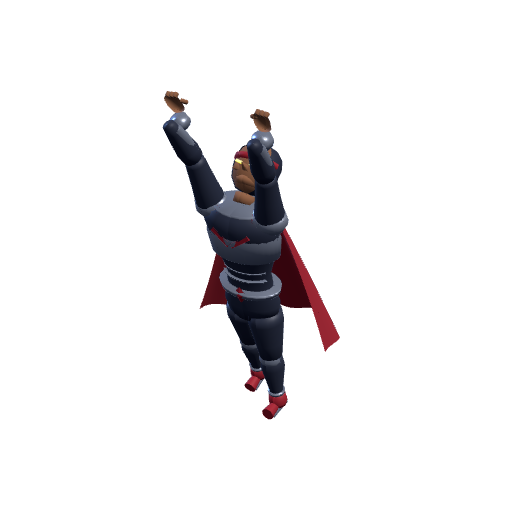
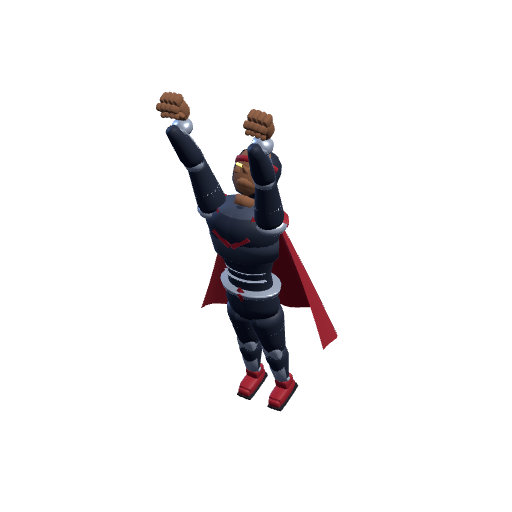
Deploy: drag direction and feel fixed, The Forged rebuilt with real hands
Claude-Session: https://claude.ai/code/session_018Pf2mkHqADKazoEgSv3VdL

diff --git a/game/index.html b/game/index.html
@@ -3135,14 +3135,24 @@
         // picked slides out from under you on every bend.
         if(this._prevRc!==undefined) this.pos.x += rc - this._prevRc;
         this._prevRc=rc;
+        if(this._dragSeq===undefined) this.vel.x=0;
         // Keys and gyro still nudge, so the scheme never leaves anyone without a control.
         this._dragBase=clamp(this._dragBase + sx*STRAFE*0.35*dt, -lim, lim);
-        const want=clamp(this._dragBase + g.input.dragPx*g.input.dragWorldPerPx(), -lim, lim);
-        // Critically-damped follow with a hard speed cap: instant enough to feel 1:1, capped so a
-        // flick across the glass cannot teleport him through a tower.
-        const step=clamp((rc+want-this.pos.x)*Math.min(1,18*dt), -STRAFE*dt, STRAFE*dt);
-        this.pos.x+=step;
-        this.vel.x=step/Math.max(dt,1e-4);
+        // MINUS. The camera looks down +Z, so world +X is screen LEFT — which is why the joystick
+        // path negates its steer too. Without this, dragging right sent him left.
+        const want=clamp(this._dragBase - g.input.dragPx*g.input.dragWorldPerPx(), -lim, lim);
+        // A CRITICALLY DAMPED SPRING, not a per-frame lerp toward the target. A lerp starts at full
+        // speed and decays, which is exactly the stepped, robotic feel — there is no acceleration
+        // in it at all. A spring carries velocity between frames, so he leans into the move and
+        // settles out of it, and it cannot overshoot.
+        const target=rc+want;
+        const om=13.5;                              // rad/s — about a quarter-second to settle
+        const x=om*dt, expo=1/(1+x+0.48*x*x+0.235*x*x*x);
+        const change=this.pos.x-target;
+        const tmp=(this.vel.x+om*change)*dt;
+        this.vel.x=clamp((this.vel.x-om*tmp)*expo, -STRAFE, STRAFE);
+        const nx=target+(change+tmp)*expo;
+        this.pos.x += clamp(nx-this.pos.x, -STRAFE*dt, STRAFE*dt);   // a flick still cannot teleport
         sx=clamp(this.vel.x/STRAFE,-1,1);           // bank/cape read the motion, not the finger
       } else {
         this.vel.x=damp(this.vel.x,sx*STRAFE,12,dt);         // weightier response
@@ -6228,14 +6238,16 @@
   function buildProceduralVillain(opts){
     // The suit was 0x1b1d26 — so dark that every plate, rib and buckle on it disappeared into one
     // silhouette in daylight. Lifting it two stops is what lets the armour read at all.
-    const O=Object.assign({ skin:0x8a5a3c, suit:0x2b3040, trim:0x9b1d2a, metal:0x8e94a2 }, opts||{});
+    const O=Object.assign({ skin:0x8a5a3c, suit:0x232a3a, trim:0x9b1d2a, metal:0xc2ccda }, opts||{});
     const HEAD=0.115;                                   // one head-height; everything derives from it
     const root=new THREE.Group();
 
     const M=(c,o)=>new THREE.MeshStandardMaterial(Object.assign({color:c,roughness:.62,metalness:.06},o||{}));
-    const matSuit=M(O.suit,{roughness:.46,metalness:.18}), matSkin=M(O.skin,{roughness:.78}),
+    const matSuit=M(O.suit,{roughness:.52,metalness:.10}), matSkin=M(O.skin,{roughness:.78}),
           matTrim=M(O.trim,{roughness:.5}), matMetal=M(O.metal,{roughness:.28,metalness:.55,emissive:0x2a2f3a,emissiveIntensity:.25}),
-          matEye=M(0xffe9a8,{roughness:.2,emissive:0xffb020,emissiveIntensity:2.2});
+          matEye=M(0xffe9a8,{roughness:.2,emissive:0xffb020,emissiveIntensity:2.2}),
+          matSole=M(0x14161c,{roughness:.92,metalness:0}),
+          matPlate=M(0x4e576a,{roughness:.40,metalness:.42});
 
     // A limb from a silhouette: pairs of [radius, height] up the length, spun into a solid.
     // `seg` 20 is smooth enough to read as flesh without being a sphere.
@@ -6244,6 +6256,21 @@
       const g=new THREE.LatheGeometry(pts, seg||20);
       g.computeVertexNormals();
       return new THREE.Mesh(g, mat);
+    };
+    // A BOX WITH ROUNDED EDGES. Nothing on a body is a sharp-cornered box, and nothing on a body
+    // is a lathe either — hands, plates and boots are blocks with radii. Each vertex is pulled onto
+    // the surface of an inner box swept by a sphere of radius r, which is exactly a rounded box.
+    const roundBox=(w,h,d,r,seg)=>{
+      const n=seg||5, g=new THREE.BoxGeometry(w,h,d,n,n,n), p=g.attributes.position;
+      const hx=Math.max(0,w/2-r), hy=Math.max(0,h/2-r), hz=Math.max(0,d/2-r);
+      const v=new THREE.Vector3(), c=new THREE.Vector3();
+      for(let i=0;i<p.count;i++){
+        v.set(p.getX(i),p.getY(i),p.getZ(i));
+        c.set(clamp(v.x,-hx,hx), clamp(v.y,-hy,hy), clamp(v.z,-hz,hz));
+        v.sub(c); if(v.lengthSq()>1e-12) v.setLength(r); v.add(c);
+        p.setXYZ(i,v.x,v.y,v.z);
+      }
+      g.computeVertexNormals(); return g;
     };
     // Same, but only a slice of the revolution — for armour that sits on the FRONT of the chest
     // instead of wrapping all the way round like a barrel.
@@ -6274,9 +6301,11 @@
     // the chest and narrowing to the shoulders, which is the silhouette of a bust — he read as a
     // woman in a breastplate. It is now a metal shell over the FRONT 210° only, cut away at the
     // sternum, with a small red chevron for the villain read.
-    const plate=shell([[0.00,-0.02*HEAD],[0.82*HEAD,0.06*HEAD],[0.88*HEAD,0.52*HEAD],
-                       [0.80*HEAD,0.84*HEAD],[0.50*HEAD,1.02*HEAD]], matMetal, 20,
-                      -1.83, 3.66);
+    // matPlate, not matMetal: in bright chrome this wide a shell became a white bib across his
+    // chest that read as a bust again, and it drowned the chevron sitting on top of it.
+    const plate=shell([[0.00,-0.02*HEAD],[0.80*HEAD,0.06*HEAD],[0.855*HEAD,0.50*HEAD],
+                       [0.74*HEAD,0.82*HEAD],[0.44*HEAD,0.98*HEAD]], matPlate, 20,
+                      -1.70, 3.40);
     plate.scale.set(1.02,1,0.645); put(plate, 0, 0.20*HEAD, 0);
     for(const sx of [-1,1]){          // the chevron, two bars meeting at the sternum
       const bar=new THREE.Mesh(new THREE.BoxGeometry(0.52*HEAD,0.11*HEAD,0.07*HEAD), matTrim);
@@ -6350,55 +6379,92 @@
                      -1.36, 2.72);
     mask.scale.z=0.94; H(mask, 0, 1.66*HEAD, 0);
 
-    // ---- ARMS. Deltoid swell, taper into the elbow, forearm belly, wrist pinch. Built pointing
-    // DOWN the -Y axis then rotated out, so the shoulder is the pivot and the pose is one number.
+    // ---- ARMS. Built pointing DOWN the -Y axis and then swung overhead, so the shoulder is the
+    // pivot and the whole pose is one rotation. Everything is mirrored exactly, and NOTHING here
+    // is allowed to differ between the two sides — an asymmetric limb makes him look like he is
+    // leaning even when he is dead level.
+    //
+    // In arm-local space after that swing: -Y is the punching direction, +Z is the BACK of the
+    // hand, -Z is the palm. The fingers curl from the knuckles round toward -Z.
     const arm=(side)=>{
       const g=new THREE.Group();
       // A pauldron over the shoulder — the single strongest "villain" read in a silhouette.
-      const pauld=limb([[0.00,0.16*HEAD],[0.30*HEAD,0.10*HEAD],[0.40*HEAD,-0.10*HEAD],
-                        [0.36*HEAD,-0.30*HEAD],[0.00,-0.34*HEAD]], matMetal, 18);
-      pauld.scale.z=0.86; pauld.position.y=0.04*HEAD; g.add(pauld);
+      // Two overlapping plates rather than one dome, so it has a lip that catches the light.
+      const pauld=limb([[0.00,0.18*HEAD],[0.26*HEAD,0.13*HEAD],[0.385*HEAD,-0.02*HEAD],
+                        [0.40*HEAD,-0.13*HEAD],[0.30*HEAD,-0.20*HEAD],[0.00,-0.23*HEAD]], matMetal, 20);
+      pauld.scale.z=0.86; pauld.position.y=0.03*HEAD; g.add(pauld);
+      const lip=shell([[0.00,-0.06*HEAD],[0.425*HEAD,-0.09*HEAD],[0.43*HEAD,-0.19*HEAD],[0.00,-0.22*HEAD]],
+                      matTrim, 18, -1.5, 3.0);
+      lip.scale.z=0.86; lip.position.y=0.03*HEAD; g.add(lip);
       for(let k=0;k<2;k++){                              // two swept spikes off the pauldron
         const sp=limb([[0.00,0],[0.055*HEAD,0.02*HEAD],[0.035*HEAD,0.20*HEAD],[0.00,0.30*HEAD]], matTrim, 8);
         sp.position.set(side*0.26*HEAD, 0.06*HEAD, -0.10*HEAD+k*0.20*HEAD);
         sp.rotation.set(-0.5+k*0.3, 0, side*1.05); g.add(sp);
       }
-      // a plate down the outside of the forearm — the last thing the wall sees
-      const vamb=limb([[0.00,0.10*HEAD],[0.20*HEAD,0.02*HEAD],[0.215*HEAD,-0.55*HEAD],
-                       [0.185*HEAD,-0.92*HEAD],[0.00,-1.00*HEAD]], matMetal, 16);
-      vamb.scale.set(1.06,1,0.78);
       // Upper arm: shoulder to elbow is ~1.35 heads, and the elbow must land level with the navel.
       const upper=limb([
         [0.00,0],[0.30*HEAD,-0.05*HEAD],[0.325*HEAD,-0.26*HEAD],          // deltoid swell
-        [0.27*HEAD,-0.70*HEAD],[0.225*HEAD,-1.20*HEAD],[0.21*HEAD,-1.32*HEAD],
-        [0.00,-1.35*HEAD]                                                  // elbow
-      ], matSuit, 18);
+        [0.30*HEAD,-0.52*HEAD],[0.255*HEAD,-0.92*HEAD],                    // bicep belly, then tricep taper
+        [0.225*HEAD,-1.20*HEAD],[0.21*HEAD,-1.32*HEAD],[0.00,-1.35*HEAD]   // elbow
+      ], matSuit, 20);
       g.add(upper);
+      // A band at the bicep and an elbow cap — the joints are where a limb stops reading as a tube.
+      const band=limb([[0.00,-0.03*HEAD],[0.285*HEAD,-0.01*HEAD],[0.29*HEAD,0.09*HEAD],[0.00,0.11*HEAD]], matMetal,18);
+      band.position.y=-0.62*HEAD; g.add(band);
+      const elbowCap=limb([[0.00,0.12*HEAD],[0.19*HEAD,0.06*HEAD],[0.235*HEAD,-0.06*HEAD],
+                           [0.20*HEAD,-0.16*HEAD],[0.00,-0.20*HEAD]], matMetal, 16);
+      elbowCap.scale.z=0.80; elbowCap.position.set(0,-1.30*HEAD,-0.08*HEAD); elbowCap.rotation.x=-0.18; g.add(elbowCap);
       // Forearm: elbow to wrist ~1.15 heads, wrist level with the crotch.
       const fore=limb([
         [0.00,0],[0.225*HEAD,-0.05*HEAD],[0.245*HEAD,-0.30*HEAD],         // forearm belly, high
         [0.165*HEAD,-0.92*HEAD],[0.135*HEAD,-1.12*HEAD],[0.00,-1.15*HEAD] // wrist pinch
-      ], matSuit, 18);
+      ], matSuit, 20);
       fore.position.y=-1.33*HEAD; fore.rotation.x=0.26; g.add(fore);
+      // a plate down the outside of the forearm — the last thing the wall sees
+      const vamb=shell([[0.00,0.10*HEAD],[0.205*HEAD,0.02*HEAD],[0.235*HEAD,-0.55*HEAD],
+                        [0.205*HEAD,-0.92*HEAD],[0.00,-1.00*HEAD]], matMetal, 18, -1.15, 2.30);
+      vamb.scale.set(1.06,1,0.86);
       vamb.position.set(0,-1.39*HEAD,0.02*HEAD); vamb.rotation.x=0.26; g.add(vamb);
-      const cuff=limb([[0.00,-0.04*HEAD],[0.205*HEAD,0],[0.215*HEAD,0.16*HEAD],[0.00,0.18*HEAD]], matMetal,16);
+      const cuff=limb([[0.00,-0.05*HEAD],[0.20*HEAD,-0.01*HEAD],[0.225*HEAD,0.12*HEAD],
+                       [0.205*HEAD,0.19*HEAD],[0.00,0.21*HEAD]], matMetal,18);
       cuff.position.y=-2.34*HEAD; cuff.rotation.x=0.26; g.add(cuff);
-      // Hand: a palm block plus a thumb, because a lathe alone gives a mitten.
-      // Hand: a lathe palm squashed flat, so the edges are rounded the way a fist is, plus a
-      // knuckle row and a thumb. Three stacked boxes read as a mitten made of Lego.
-      const hg=new THREE.Group(); hg.position.set(0,-2.48*HEAD,0.13*HEAD); hg.rotation.x=0.26;
-      const palm=limb([[0.00,0.04*HEAD],[0.15*HEAD,-0.02*HEAD],[0.175*HEAD,-0.22*HEAD],
-                       [0.155*HEAD,-0.38*HEAD],[0.00,-0.44*HEAD]], matSkin, 14);
-      palm.scale.set(1,1,0.62); hg.add(palm);
-      for(let k=0;k<3;k++){                       // knuckles, so the fist has a top edge
-        const kn=limb([[0.00,0],[0.048*HEAD,0.01*HEAD],[0.05*HEAD,0.10*HEAD],[0.00,0.12*HEAD]], matSkin, 8);
-        kn.rotation.x=Math.PI*0.52;
-        kn.position.set((k-1)*0.095*HEAD, -0.38*HEAD, 0.02*HEAD); hg.add(kn);
+
+      // ---- THE FIST. This is what leads every smash, so it is built as an actual hand: a rounded
+      // palm mass, four knuckles standing proud of the leading face, four curled fingers wrapped
+      // round onto the palm with their tips tucked under, and a thumb laid across the front.
+      //
+      // The first attempt used lathes for all of it. A lathe is a solid of revolution — the palm
+      // came out as a faceted cone and the fingers as loose cylinders floating off the end of it,
+      // which reads as a robot claw. A hand is BLOCKS WITH RADII, so it is roundBox throughout.
+      const hg=new THREE.Group(); hg.position.set(0,-2.50*HEAD,0.13*HEAD); hg.rotation.x=0.26;
+      hg.scale.setScalar(1.24);                          // a hand is ~0.75 of a head, not a knob
+      const F=(geo,x,y,z,rx,rz)=>{ const m=new THREE.Mesh(geo, matSkin);
+        m.position.set(x*HEAD,y*HEAD,z*HEAD); if(rx)m.rotation.x=rx; if(rz)m.rotation.z=rz;
+        hg.add(m); return m; };
+      // back of the hand and the palm behind it, as one mass
+      F(roundBox(0.350*HEAD,0.335*HEAD,0.260*HEAD,0.105*HEAD,6), 0,-0.135,0.015);
+      const knGeo =roundBox(0.078*HEAD,0.165*HEAD,0.210*HEAD,0.056*HEAD,4);
+      const midGeo=roundBox(0.078*HEAD,0.210*HEAD,0.135*HEAD,0.050*HEAD,4);
+      const tipGeo=roundBox(0.078*HEAD,0.100*HEAD,0.100*HEAD,0.043*HEAD,4);
+      for(let k=0;k<4;k++){
+        const fx=(k-1.5)*0.092;                          // 0.010 of clear air between fingers, so
+        const arc=Math.abs(k-1.25)*0.016;                // the grooves actually read at distance
+        // the knuckle: the leading edge of the fist, and the part that hits the wall
+        F(knGeo, fx, -0.385+arc, 0.020, -0.10);
+        // the middle phalanx, wrapped round onto the palm side
+        F(midGeo, fx, -0.360+arc, -0.150, 0.42);
+        // the fingertip, tucked back up under the fingers
+        F(tipGeo, fx, -0.235+arc, -0.200, 0.60);
       }
-      const thumb=limb([[0.00,0],[0.048*HEAD,0.01*HEAD],[0.045*HEAD,0.15*HEAD],[0.00,0.17*HEAD]], matSkin, 8);
-      thumb.position.set(side*-0.15*HEAD,-0.26*HEAD,0.05*HEAD);
-      thumb.rotation.set(0.3,0,side*0.9); hg.add(thumb);
-      g.add(hg);
+      // thumb: two segments laid ACROSS the front of the curled fingers, which is what closes a fist
+      F(roundBox(0.075*HEAD,0.170*HEAD,0.100*HEAD,0.042*HEAD,4),
+        side*-0.135, -0.150, -0.115, -0.30, side*0.95);
+      F(roundBox(0.068*HEAD,0.140*HEAD,0.090*HEAD,0.038*HEAD,4),
+        side*-0.030, -0.255, -0.160, -0.75, side*1.30);
+      // the wrist, filling the gap back to the cuff
+      F(roundBox(0.245*HEAD,0.110*HEAD,0.215*HEAD,0.070*HEAD,4), 0, 0.030, 0.020);
+      g.add(hg); g.userData.hand=hg;
+
       g.traverse(o=>{ if(o.isMesh) o.castShadow=true; });
       // FISTS FIRST. He flies face-down along his own +Y, so "forward" in flight is straight up
       // the model — both arms go overhead, not down at his sides. Keep the splay SMALL: at 0.30
@@ -6409,47 +6475,55 @@
     };
     const armL=arm(-1), armR=arm(1);
 
-    // ---- LEGS. Thigh mass, knee pinch, calf bulge, ankle pinch, then a foot with an actual
-    // heel and toe. A cylinder leg is the single most obvious "programmer model" tell.
+    // ---- LEGS. Thigh mass, knee pinch, calf bulge, ankle pinch, then a real boot. A cylinder leg
+    // with a stub on the end is the single most obvious "programmer model" tell, and the foot is
+    // where it shows first: a foot is nearly a head long, and it has a sole.
     const leg=(side)=>{
       const g=new THREE.Group();
       const thigh=limb([
         [0.00,0],[0.40*HEAD,-0.06*HEAD],[0.42*HEAD,-0.30*HEAD],           // glute / quad mass
         [0.33*HEAD,-0.90*HEAD],[0.27*HEAD,-1.32*HEAD],[0.00,-1.36*HEAD]   // narrowing into the knee
-      ], matSuit, 18);
+      ], matSuit, 20);
       g.add(thigh);
+      // A band round the thigh. The first version was a hip PLATE that stood proud of the thigh
+      // top and stuck up past it — from the side it read as a broken piece of armour flapping off
+      // him. The top of the thigh is inside the belt anyway; there is nothing to armour up there.
+      const tBand=limb([[0.00,-0.04*HEAD],[0.375*HEAD,-0.01*HEAD],[0.38*HEAD,0.11*HEAD],[0.00,0.14*HEAD]], matMetal,20);
+      tBand.position.y=-0.56*HEAD; g.add(tBand);
       const shin=limb([
         [0.00,0],[0.26*HEAD,-0.05*HEAD],[0.29*HEAD,-0.34*HEAD],           // calf belly, high and full
         [0.18*HEAD,-0.96*HEAD],[0.14*HEAD,-1.24*HEAD],[0.00,-1.26*HEAD]   // ankle
-      ], matSuit, 18);
+      ], matSuit, 20);
       shin.position.y=-1.32*HEAD; g.add(shin);
-      // Boot: an ankle cuff, a heel block, and a toe that TAPERS. A single deep box is a plank,
-      // which is what it looked like — the toe has to come to a point or the foot reads as a slab.
-      const boot=limb([[0.00,0.06*HEAD],[0.205*HEAD,0],[0.225*HEAD,-0.20*HEAD],
-                       [0.20*HEAD,-0.30*HEAD],[0.00,-0.34*HEAD]], matTrim,16);
-      boot.position.y=-2.52*HEAD; g.add(boot);
-      const heel=new THREE.Mesh(new THREE.BoxGeometry(0.30*HEAD,0.15*HEAD,0.30*HEAD), matTrim);
-      heel.position.set(0,-2.76*HEAD,-0.03*HEAD); g.add(heel);
-      const toe=new THREE.Mesh(new THREE.CylinderGeometry(0.155*HEAD,0.105*HEAD,0.44*HEAD,10), matTrim);
-      toe.rotation.set(Math.PI*0.5,0,0); toe.scale.y=1; toe.scale.x=1;
-      toe.position.set(0,-2.775*HEAD,0.28*HEAD); g.add(toe);
-      const sole=new THREE.Mesh(new THREE.BoxGeometry(0.30*HEAD,0.05*HEAD,0.62*HEAD), matMetal);
-      sole.position.set(0,-2.845*HEAD,0.14*HEAD); g.add(sole);
-      // KNEE GUARD — the joint is where a leg reads as armour instead of a tube
-      const knee=limb([[0.00,0.16*HEAD],[0.22*HEAD,0.09*HEAD],[0.27*HEAD,-0.06*HEAD],
-                       [0.23*HEAD,-0.20*HEAD],[0.00,-0.26*HEAD]], matMetal, 16);
-      knee.scale.z=0.82; knee.position.set(0,-1.33*HEAD,0.07*HEAD); g.add(knee);
-      const strap=limb([[0.00,-0.05*HEAD],[0.20*HEAD,-0.03*HEAD],[0.21*HEAD,0.05*HEAD],[0.00,0.07*HEAD]], matMetal,14);
-      strap.position.y=-2.44*HEAD; g.add(strap);            // boot strap over the ankle
+      // KNEE GUARD — a plate standing proud of the joint, not a band around it
+      const knee=new THREE.Mesh(roundBox(0.50*HEAD,0.52*HEAD,0.34*HEAD,0.15*HEAD,6), matMetal);
+      knee.position.set(0,-1.34*HEAD,0.10*HEAD); knee.rotation.x=0.10; g.add(knee);
+      // a shin plate down the front, and a calf band behind it
+      const shinP=shell([[0.00,0.06*HEAD],[0.235*HEAD,0.00*HEAD],[0.255*HEAD,-0.44*HEAD],
+                         [0.215*HEAD,-0.80*HEAD],[0.00,-0.88*HEAD]], matMetal, 18, -1.05, 2.10);
+      shinP.scale.set(1.05,1,0.92); shinP.position.y=-1.60*HEAD; g.add(shinP);
+
+      // ---- BOOT. Rounded blocks, because a foot is a wedge and a lathe cannot make one. The sole
+      // is DARK: it was chrome, and from behind it read as a grey block wedged into a red boot.
+      const bootG=new THREE.Group(); bootG.position.set(0,-2.56*HEAD,0); g.add(bootG);
+      const B=(geo,mat,x,y,z,rx)=>{ const m=new THREE.Mesh(geo,mat);
+        m.position.set(x*HEAD,y*HEAD,z*HEAD); if(rx)m.rotation.x=rx; bootG.add(m); return m; };
+      B(roundBox(0.375*HEAD,0.34*HEAD,0.40*HEAD,0.10*HEAD,5), matTrim, 0,-0.02,-0.01);      // ankle
+      B(roundBox(0.40*HEAD,0.30*HEAD,0.80*HEAD,0.11*HEAD,5), matTrim, 0,-0.24,0.16);        // the foot
+      B(roundBox(0.335*HEAD,0.22*HEAD,0.30*HEAD,0.09*HEAD,5), matTrim, 0,-0.27,0.50, -0.16);// tapering toe
+      B(roundBox(0.42*HEAD,0.10*HEAD,0.92*HEAD,0.045*HEAD,4), matSole, 0,-0.395,0.19);      // the sole
+      B(roundBox(0.40*HEAD,0.13*HEAD,0.26*HEAD,0.055*HEAD,4), matSole, 0,-0.345,-0.14);     // the heel
+      B(roundBox(0.415*HEAD,0.09*HEAD,0.145*HEAD,0.04*HEAD,4), matMetal, 0,0.14,0.03);      // ankle strap
+
       g.traverse(o=>{ if(o.isMesh) o.castShadow=true; });
       g.position.set(side*0.29*HEAD, -1.36*HEAD, 0);
-      g.rotation.x=0.12; g.rotation.z=side*0.05;
       root.add(g); return g;
     };
     const legL=leg(-1), legR=leg(1);
-    // Legs TRAIL. A walking stride is what he had, and at 300 km/h it read as somebody stepping
-    // through the air. A small stagger is all that is left, so they are not a pair of poles.
-    legL.rotation.set(0.16, 0, -0.045); legR.rotation.set(-0.07, 0, 0.075);
+    // MIRRORED EXACTLY. These used to carry a walking stride — 0.34 on one side and -0.10 on the
+    // other — which at 300 km/h did not read as a stride, it read as him leaning. Anything that
+    // differs between the two legs makes a level flight look crooked.
+    legL.rotation.set(0.10, 0, -0.055); legR.rotation.set(0.10, 0, 0.055);
 
     // ---- CAPE. The hard part, and the first attempt got it wrong in the way that matters: it was
     // built as a FLAT PLANE bent backwards, so its side edges stayed at z≈0 and punched out
@@ -6492,14 +6566,15 @@
     // The geometry is already in body space — no offset, or the collar leaves his shoulders.
     cape.castShadow=true; root.add(cape);
     // the collar it hangs from, so it does not appear to float off his back
-    const collar=limb([[0.00,-0.06*HEAD],[0.66*HEAD,-0.02*HEAD],[0.70*HEAD,0.16*HEAD],[0.00,0.20*HEAD]], matMetal, 20);
+    const collar=limb([[0.00,-0.06*HEAD],[0.60*HEAD,-0.02*HEAD],[0.64*HEAD,0.15*HEAD],[0.00,0.19*HEAD]], matPlate, 20);
     collar.scale.z=0.66; put(collar, 0, 1.26*HEAD, -0.06*HEAD);
     for(const sx of [-1,1]){                             // the clasps the cape actually hangs from
       const clasp=new THREE.Mesh(new THREE.OctahedronGeometry(0.12*HEAD,0), matTrim);
       clasp.scale.set(1,1.2,0.6); put(clasp, sx*0.44*HEAD, 1.30*HEAD, 0.22*HEAD);
     }
 
-    root.userData.parts={armL,armR,legL,legR,cape,torso,skull};
+    root.userData.parts={armL,armR,legL,legR,cape,torso,skull,
+                         handL:armL.userData.hand, handR:armR.userData.hand};
     return root;
   }
 

diff --git a/ASSETS_HOWTO.md b/ASSETS_HOWTO.md
@@ -373,6 +373,13 @@ Four properties that all matter:
 - **The road carries him.** `pos.x += rc - prevRc` before the damped step. Without it the follow has
   to chase the curve *as well as* the finger and always trails it by about two frames of road
   movement — the lane you picked slides out from under you on every bend.
+- **The direction is checked in SCREEN space.** World `+X` is screen *left* under this camera, so a
+  world-space test passes happily on an inverted control — which is exactly how drag first shipped,
+  backwards. `scripts/controls.mjs` projects him through the camera and checks the pixels.
+- **The motion is a critically damped spring**, not a per-frame lerp toward the target. A lerp
+  starts at full speed and decays; there is no acceleration in it at all, which is the stepped,
+  robotic feel. A spring carries velocity between frames, so he leans into the move and settles out
+  of it, and it still cannot overshoot.
 - **The velocity channel stays empty.** `sample()` adds `this.joy` only in stick mode, and
   `setScheme` clears both plus any live touch id — a stale joystick value left at 1 would otherwise
   steer forever after a switch.
@@ -848,8 +855,8 @@ Then add the entry to `CHARACTERS`, give it a `flow` region (PART 6), and render
 
 ## The Forged — built from code
 
-`buildProceduralVillain()` builds a villain out of geometry alone: **65 meshes, 5,646 vertices,
-8.4 heads tall in the flight pose.**
+`buildProceduralVillain()` builds a villain out of geometry alone: **~110 meshes, 19k triangles,
+8.7 heads tall in the flight pose.**
 
 Unlike the GLBs, his **pose is authored, not corrected**: he is modelled standing and then pitched
 exactly `Math.PI/2` so he flies dead level. Because "forward in flight" is the model's own `+Y`,
@@ -864,6 +871,33 @@ The thing that keeps it from reading as a toy is that **almost nothing is a box 
 Limbs and torso are `LatheGeometry` silhouettes — a profile of radii swept around the axis — so the
 deltoid swells, the elbow tapers, the calf bulges and the ankle pinches, the way an actual arm and
 leg do. The face is built rather than painted: brow ridge, nose bridge, cheekbones, jaw and ears.
+
+### Lathes for limbs, rounded boxes for everything else
+
+Two primitives carry the whole model, and using the wrong one is what makes a part look wrong:
+
+- **`limb(profile)`** — a `LatheGeometry`, a solid of revolution. Right for anything radially
+  symmetric about its own axis: upper arms, forearms, thighs, shins, necks, bands, spikes.
+- **`roundBox(w,h,d,r)`** — a box whose vertices are pulled onto an inner box swept by a sphere of
+  radius `r`. Right for anything that is a **block with radii**: hands, fingers, boots, knee guards.
+
+The fist was built out of lathes first. A lathe cannot make a hand: the palm came out as a faceted
+cone and the fingers as loose cylinders floating off the end of it, which reads as a robot claw.
+Rebuilt from rounded boxes it is a rounded palm mass, four knuckles standing proud of the leading
+face, four fingers curled round onto the palm with the tips tucked under, and a two-segment thumb
+laid across the front — about 0.010 heads of clear air between fingers, because the grooves are
+what say "fingers" at gameplay distance. The knuckle line is an **arc**, not a bar.
+
+Feet had the same problem, plus a scale one: a foot is nearly a **head long**. A stub on the end of
+the shin is the classic tell. The sole is its own dark material — it was chrome, and from behind it
+read as a grey block wedged into a red boot.
+
+### Nothing may differ between left and right
+
+The legs carried a walking stride, `0.34` on one side and `-0.10` on the other. At 300 km/h that
+does not read as a stride, it reads as **him leaning** — and the player will report it as the model
+being crooked, not as an animation choice. Both legs and both arms are exact mirrors now
+(`side*` on the z-rotation only). `BANK_ROLL` is already `0/0`, so any apparent lean is the model.
 
 ### The cape is a cone, not a plane
 
@@ -912,8 +946,14 @@ metal shell over the front 210° with a small chevron.
 ### Detail is worthless if the value is too dark to show it
 
 The suit was `0x1b1d26`. Every plate, rib, buckle and guard on him disappeared into one silhouette
-in daylight — the model had the detail and none of it was visible. Lifting the suit two stops to
-`0x2b3040` (with a little metalness) is what made the armour read at all, and it cost nothing.
+in daylight — the model had the detail and none of it was visible. Lifting the suit to `0x232a3a`
+is what made the armour read at all, and it cost nothing.
+
+There are now **four** armour tones, and they have to stay separated or the detail merges again:
+`matSuit` (dark cloth), `matPlate` (mid, for large chest and collar pieces), `matMetal` (bright, for
+small hardware — bands, cuffs, knee guards, spikes) and `matSole` (near-black rubber). The chest
+shell was `matMetal` at first and became a white bib across his chest that read as a bust *again*,
+and it drowned the chevron sitting on it. Big pieces take the mid tone; only small ones get chrome.
 
 The armour pass itself: pauldron spikes, forearm vambraces, abdominal ribs, a belt emblem, knee
 guards, boot straps, cape clasps, and emissive eyes set into the visor. The eyes are the cheapest
